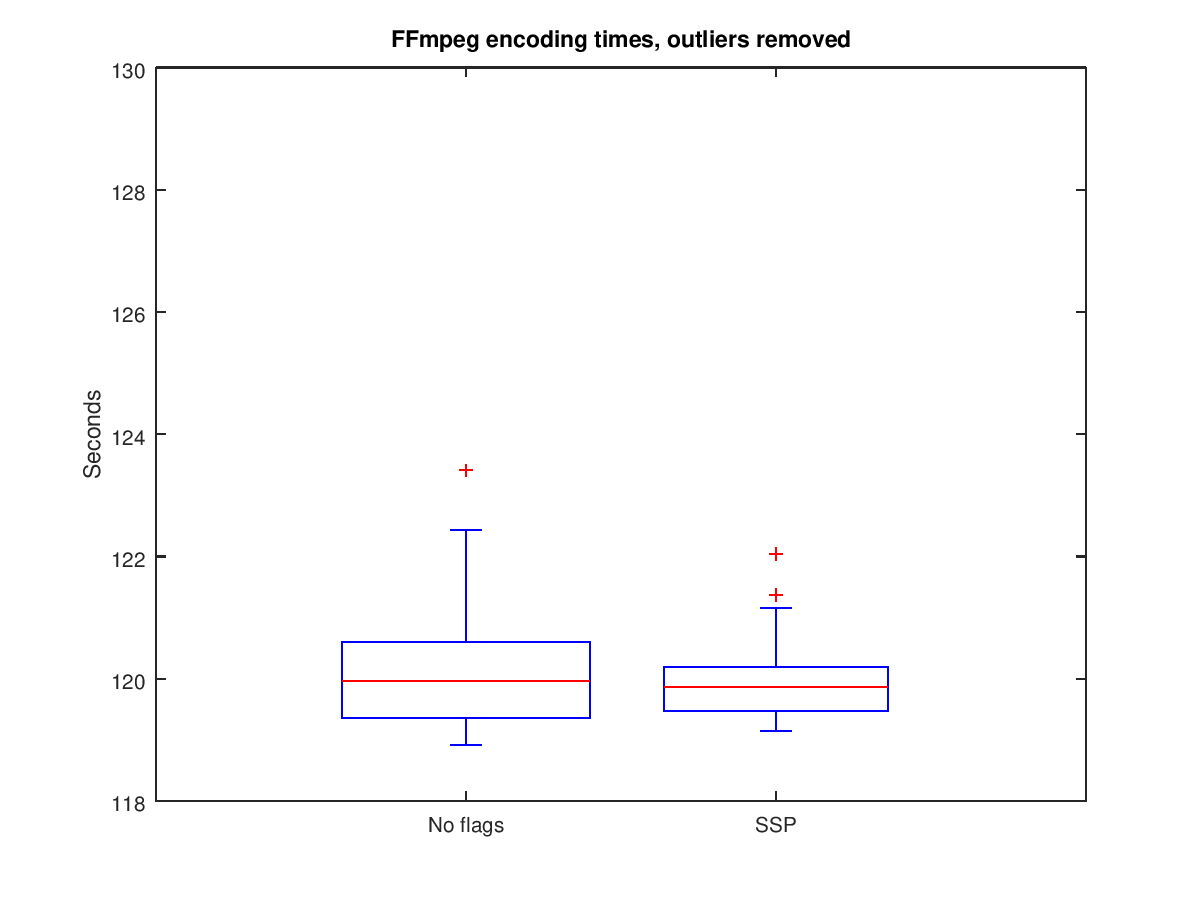
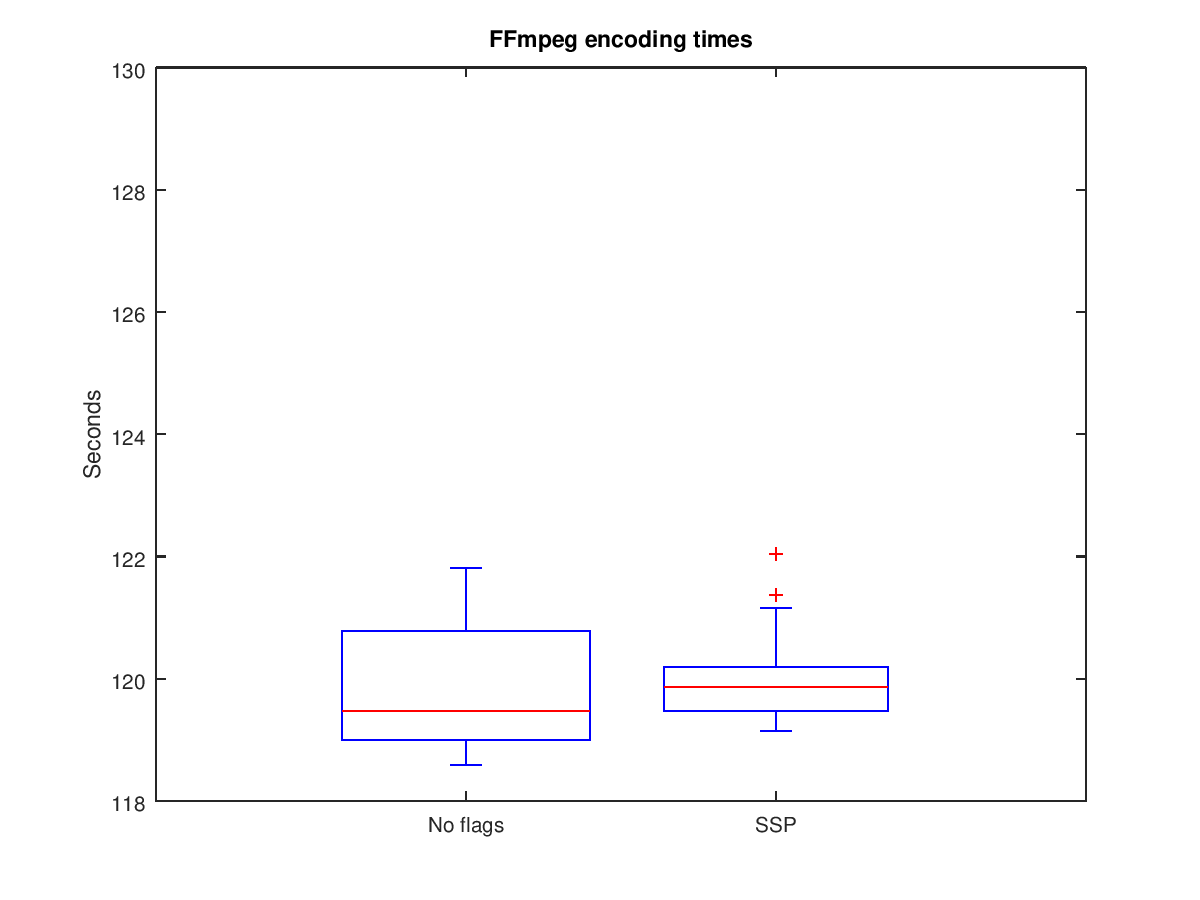
update ssp post with cleaner data

Changed region(s): [[0.3083, 0.0311, 0.7092, 0.0622], [0.2775, 0.7778, 0.4933, 0.84], [0.2775, 0.6844, 0.4933, 0.7156]]

diff --git a/_posts/2017-10-04-stack-smashing-protection.md b/_posts/2017-10-04-stack-smashing-protection.md
@@ -238,11 +238,11 @@ Following are the sizes of the file systems of the two builds:
 
 | Build         | Size (KB)       
 | ------------- |:-------------:|
-| No Flags      | 575,622       |
-| SSP           | 576,132       |
+| No Flags      | 556,866       |
+| SSP           | 557,131       |
 
-This shows that SSP code instrumentation adds an additional 510 KB (~0.5MB)
-of storage, which is an increase of ~0.09%. Your mileage may vary, as the increase
+This shows that SSP code instrumentation adds an additional 265 KB (~0.25MB)
+of storage, which is an increase of ~0.05%. Your mileage may vary, as the increase
 depends on the type of code being compiled.
 
 #### Performance cost
